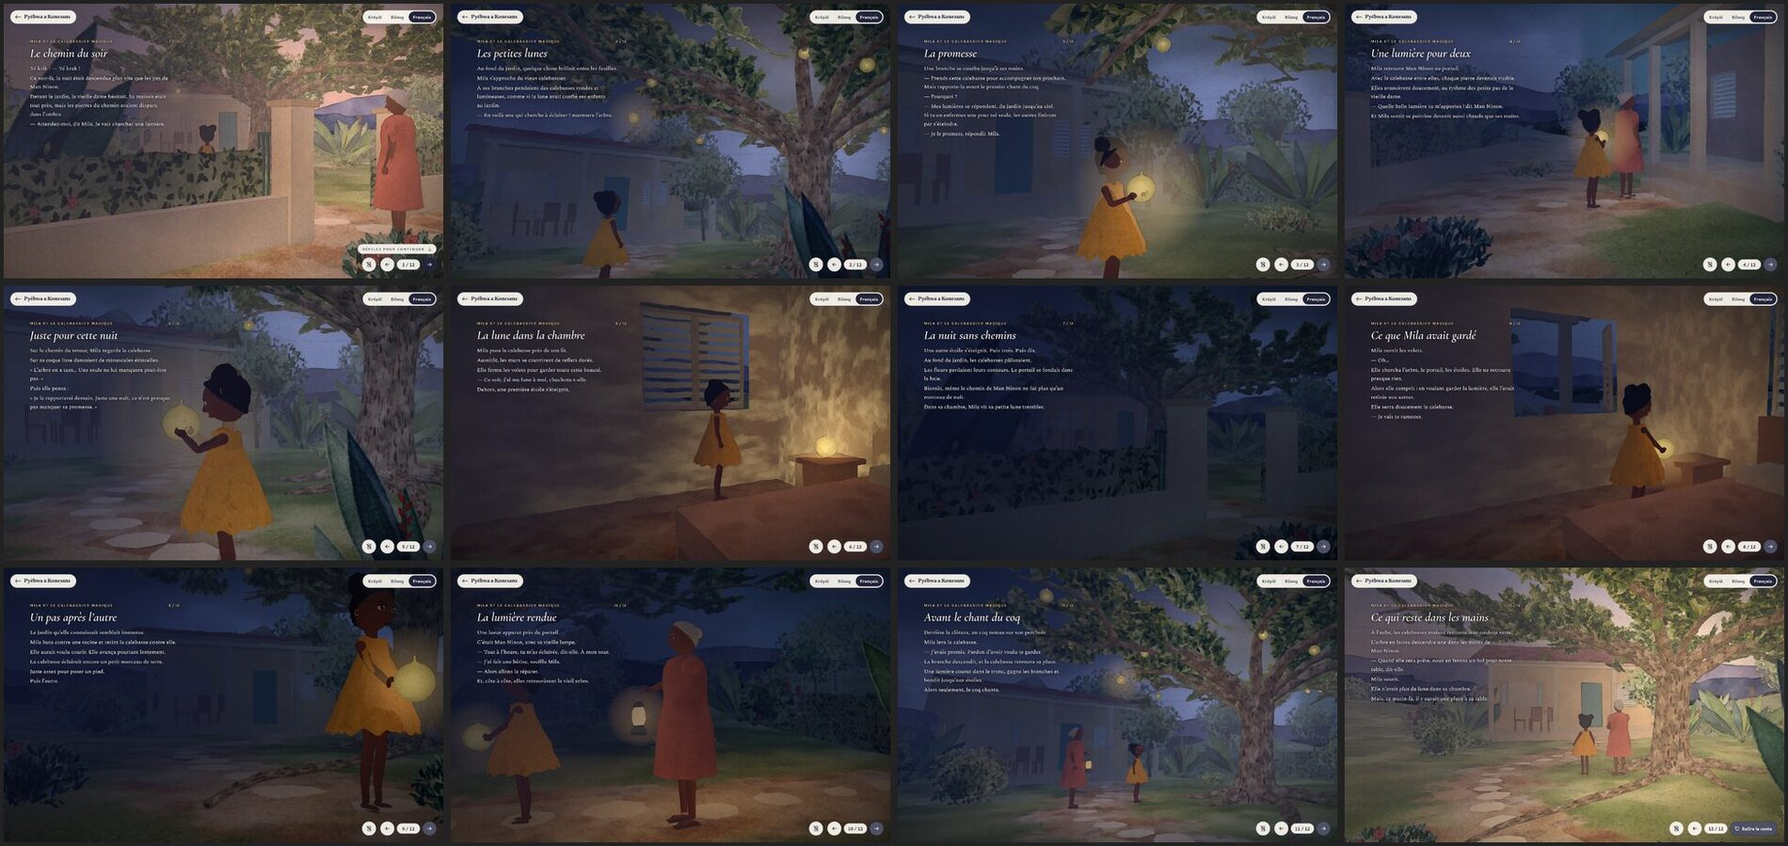
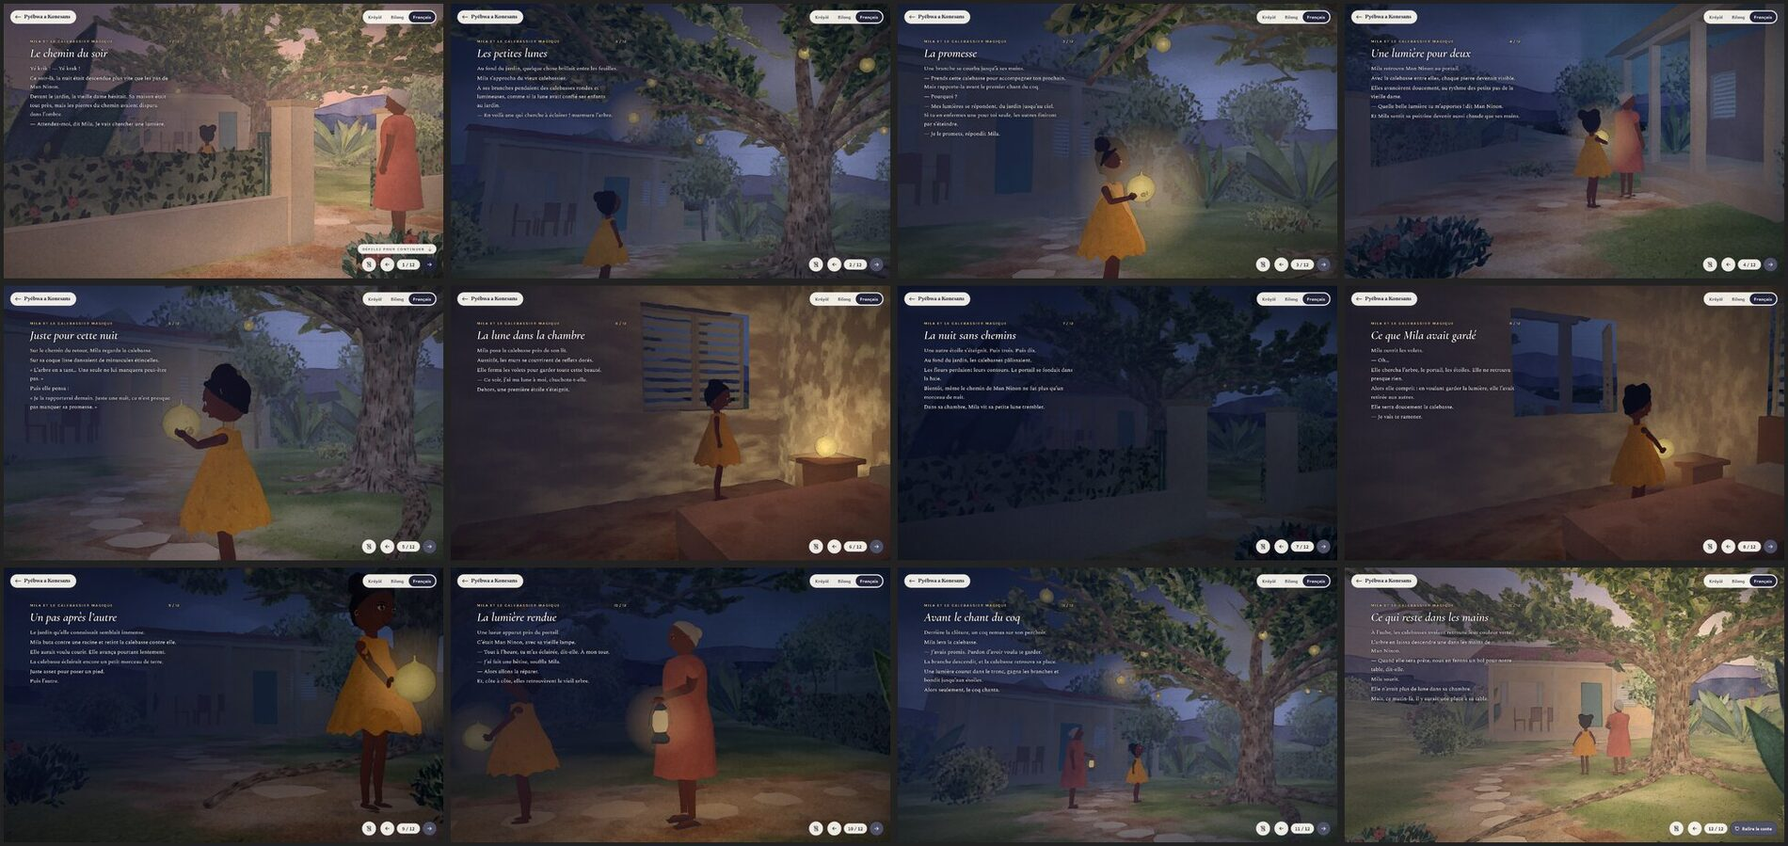
docs(missions): owner feedback 1 in the mila-calebassier report, evidence on 23236c7

diff --git a/docs/missions/2026-11-23-mila-calebassier/report.md b/docs/missions/2026-11-23-mila-calebassier/report.md
@@ -1,7 +1,7 @@
 # Report — mila-calebassier
 
 Verdict: PARTIAL
-Version: 7ed9c95
+Version: 23236c7
 
 Executor: Claude Code session, model id `claude-fable-5-2`. Layout and camera owner: the executor
 (no camera subagent). Date: 2026-11-23/24.
@@ -14,7 +14,7 @@ PR with a Deploy Preview.
 
 Outcome: the twelve pages are built, integrated as book 3 of the tree, playable on the Deploy
 Preview of draft PR #54, with sources, rebuild procedure, tests and evidence. Functional QA on the
-product commit `7ed9c95`: 156 checks, 0 failed. The existing checks of the repository are green.
+product commit `23236c7`: 156 checks, 0 failed. The existing checks of the repository are green.
 
 Why PARTIAL and not PASS:
 
@@ -118,10 +118,10 @@ OpenGL ES 3.2)`, system Chrome 158. Every "phone" below is an emulated viewport 
 | A03 | several calabashes in the branches, none on the trunk                  | build rule (no hanging point nearer than 1.3 m from the trunk axis), test "the built tree" on `assets.json`, captures                                                                                                                                                   | 13 fruits, nearest at more than 1.3 m, all above the fork                                                                                                                                                                                                                                                       | VERIFIED                                                                  |
 | A04 | contemporary architecture, no wooden hut                               | Blender stills of both houses (`s5/architecture/houses-blender.jpg`), pages 1, 3, 4, 12                                                                                                                                                                                 | rendered masonry, slab, covered terrace on posts, ribbed metal roof with eaves, jalousies; no reference photographs were gathered (limit)                                                                                                                                                                       | VERIFIED                                                                  |
 | A05 | coherent watercolour in 2D and 3D                                      | browser captures dusk, night, dark, dawn; before/after of pages 3 and 9                                                                                                                                                                                                 | coherent in one hand; drawing below the boards (section E)                                                                                                                                                                                                                                                      | PARTIAL, visual judgement                                                 |
-| A06 | real depth in motion                                                   | `s5/parallax/parallax-p01-02-04-12-desktop.mp4` (camera moves over foreground cut-outs, mid masses, tree, far relief)                                                                                                                                                   | parallax and occlusion visible on entry moves; watched as frame strips by the executor, not as video                                                                                                                                                                                                            | VERIFIED by frames                                                        |
+| A06 | real depth in motion                                                   | `s7/parallax/parallax-p01-02-04-05-10-12-{desktop,portrait}.mp4` (camera moves over foreground cut-outs, mid masses, tree, far relief)                                                                                                                                  | parallax and occlusion visible on entry moves; watched as frame strips by the executor, not as video                                                                                                                                                                                                            | VERIFIED by frames                                                        |
 | A07 | cameras documented for the twelve pages                                | `staging.ts` (landscape and portrait, entry and reading lens, duration, intent, size, move, portrait priority, continuity), `preprod.md` shotlist, `plan-jardin.png`, graybox animatics `s2/animatic/*.mp4`, tests on the presets                                       | present and executable; axis rule tested                                                                                                                                                                                                                                                                        | VERIFIED                                                                  |
-| A08 | taking, carrying, giving back are credible                             | `s5/gestures/gestures-p03-06-08-09-11-{desktop,portrait}.mp4`, time strips                                                                                                                                                                                              | hands follow the fruit, one fruit, attach point visible on pages 3 and 11; limits in section E                                                                                                                                                                                                                  | VERIFIED with reservations                                                |
-| A09 | no regression of existing tales                                        | the five repository checks; underwater stills on a fake clock against the baseline; Mila pages 1–6; existing QA journeys on branch and baseline, three of them updated to read the shelf                                                                                | checks exit 0 (57 files, 459 tests; baseline 56 and 438); no regression; details below                                                                                                                                                                                                                          | VERIFIED; `tree.mjs` and the end of `mila-nav.mjs` not run (pre-existing) |
+| A08 | taking, carrying, giving back are credible                             | `s7/gestures/gestures-p03-06-08-09-11-{desktop,portrait}.mp4`, time strips                                                                                                                                                                                              | hands follow the fruit, one fruit, attach point visible on pages 3 and 11; limits in section E                                                                                                                                                                                                                  | VERIFIED with reservations                                                |
+| A09 | no regression of existing tales                                        | the five repository checks; underwater stills on a fake clock against the baseline; Mila pages 1–6; existing QA journeys on branch and baseline, three of them updated to read the shelf                                                                                | checks exit 0 (57 files, 462 tests; baseline 56 and 438); no regression; details below                                                                                                                                                                                                                          | VERIFIED; `tree.mjs` and the end of `mila-nav.mjs` not run (pre-existing) |
 | A10 | robust, accessible navigation                                          | `qa/calebassier.mjs` on `7ed9c95`: modes `journey` (32), `rapid` (19), `touch` (13, CDP touch events), `reduced` (13), `resize` (21), `contrast` (8)                                                                                                                    | all pass; HTML text in the shared card; canvas `aria-hidden`                                                                                                                                                                                                                                                    | VERIFIED                                                                  |
 | A11 | clean loading and closing                                              | mode `lifecycle` (11): ten open/close cycles, mode `failure` (8)                                                                                                                                                                                                        | heap after GC 19.5, 20.2, 20.5 MB at cycles 1, 5, 10 (+1.5 % from 5 to 10); one canvas; one live WebGL context; blocked GLB or texture shows the shell's notice and returns to the tree                                                                                                                         | VERIFIED                                                                  |
 | A12 | performance measured                                                   | headed Chrome on the GPU, 20 s after 3 s warm-up                                                                                                                                                                                                                        | tables below                                                                                                                                                                                                                                                                                                    | VERIFIED on this desktop only                                             |
@@ -129,7 +129,7 @@ OpenGL ES 3.2)`, system Chrome 158. Every "phone" below is an emulated viewport 
 | A14 | provenance and licences                                                | `asset-register.md`, `art/mila-calebassier/README.md`                                                                                                                                                                                                                   | every file generated by the mission's scripts, nothing downloaded                                                                                                                                                                                                                                               | VERIFIED                                                                  |
 | A15 | complete reviewable version                                            | PR #54 draft, Deploy Preview, CI                                                                                                                                                                                                                                        | PR and preview exist; Codex review not done yet                                                                                                                                                                                                                                                                 | PARTIAL                                                                   |
 
-### Functional scenarios of spec 06 (commit `7ed9c95`, `s6/functional.log`, 156 pass, 0 fail)
+### Functional scenarios of spec 06 (commit `23236c7`, `s7/functional.log`, 156 pass, 0 fail)
 
 | Scenario                                     | Result                                                                                                                                                                                                                     |
 | -------------------------------------------- | -------------------------------------------------------------------------------------------------------------------------------------------------------------------------------------------------------------------------- |
@@ -235,6 +235,53 @@ masters, `.blend`, scripts, layout, build report, `MANIFEST_SHA256.txt` of 26 li
 `sha256sum -c`). The older `sources/2026-11-23-3cef379/` is left as it was (its hedge master
 predates the repaint).
 
+### Owner feedback 1 (2026-11-24, `owner-feedback-1.md`, fixed in `23236c7`)
+
+| Defect reported                                  | Root cause found                                                                                                                                     | Fix                                                                                                                                                                                                                                                                  |
+| ------------------------------------------------ | ---------------------------------------------------------------------------------------------------------------------------------------------------- | -------------------------------------------------------------------------------------------------------------------------------------------------------------------------------------------------------------------------------------------------------------------- |
+| pages 1 and 3: arms merge into the dress         | only the hand was kept out of the clothes, and only for Mila; Man Ninon's resting hand lay on the surface of her dress; elbows hung against the body | each figure's dress volume is measured (`Dims.radius`); after every arm solve the arm's depth in the clothes is measured along the upper arm and the forearm (`armDepth`), the elbow swings out and a free hand moves out until the arm is clear (`world/puppet.ts`) |
+| page 10: Man Ninon's lantern arm has disappeared | the lantern was given to her right arm but placed on her left side: the arm crossed her body inside the dress                                        | the lantern is carried out on the side of the arm that holds it                                                                                                                                                                                                      |
+| page 10: Mila's arm partly in her dress          | same cause as pages 1 and 3                                                                                                                          | same fix                                                                                                                                                                                                                                                             |
+| page 5: Mila passes through a plant              | a foreground cut-out stood on her walking line (0.1 m from it)                                                                                       | cut-out moved to the lens side of the path                                                                                                                                                                                                                           |
+
+Sweep for the same classes of defect, on every page:
+
+- Figure crossing a set element: three new tests sample both figures every 0.2 s of every page
+  against every painted cut-out (foreground of both formats and the mid-garden masses), the trunk,
+  the gate posts, the garden wall (crossed only through the gate), both houses, and in the bedroom
+  the walls, bed and bedside table. They found three more foreground cut-outs on a walking line
+  (page 2 landscape, page 5 portrait, page 10 landscape): moved. These tests see positions on the
+  ground, not what overlaps on screen: a foreground leaf may still pass in front of a figure, as a
+  foreground does. On page 5 it was moved to the text side so that it no longer does.
+- Arm inside the clothes, hidden arm: `qa/calebassier-sweep.mjs` runs every page through its whole
+  action in the engine (0.1 s steps, 1 337 instants per format, landscape and portrait) and reads
+  each figure's worst arm depth. It found one more defect: on pages 6 and 8 Mila's hands went to the
+  shutter leaves of the opposite sides, her arms crossing through her chest (about 80 mm deep);
+  uncrossed. Final sweep (`s7/sweep.log`), deepest point per page, measured against the cloth plus
+  40 mm (a forearm is 20 mm thick from its axis, limit 18 mm):
+
+| Page           | 1     | 2    | 3    | 4     | 5     | 6   | 8    | 9    | 10    | 11    | 12   |
+| -------------- | ----- | ---- | ---- | ----- | ----- | --- | ---- | ---- | ----- | ----- | ---- |
+| Mila (mm)      | 5.1   | -0.1 | -5.8 | 0.0   | -13.0 | 8.1 | 14.5 | 16.6 | 15.2  | 14.5  | -0.2 |
+| Man Ninon (mm) | -23.1 |      |      | -14.3 |       |     |      |      | -14.3 | -23.1 | -1.8 |
+
+Same values in both formats (the poses do not depend on the screen). Pages 8 to 11 are the belly
+carry: her arms are at full stretch over the front of the dress, 2 to 5 mm clear of it by this
+measure. The measure treats the dress as round and does not see its animated hem; the hero
+calabash count stayed at one on every instant.
+
+- Limits of the fix: an arm seen in front of the dress still overlaps it on screen (it is in front
+  of it, not in it); Mila's hands cannot reach the shutter leaves (the window is above her reach):
+  they are raised towards them. The frames were checked by the executor on stills and strips, not
+  as video.
+
+Evidence: `evidence/s7-owner-feedback-1-before-after.jpg` (owner's captures left, same frames
+now right), `evidence/s7-page03-arm-after.jpg`, `evidence/s7-strips-desktop.jpg` and
+`evidence/s7-strips-portrait.jpg` (eight instants of pages 1, 3, 4, 5, 9, 10, 11, 12), re-captured
+clips `s7/gestures/gestures-p03-06-08-09-11-{desktop,portrait}.mp4` and
+`s7/parallax/parallax-p01-02-04-05-10-12-{desktop,portrait}.mp4`, page sheets `evidence/s5-pages-*`
+refreshed from this build.
+
 ### Answers to the pilot's notes on S3
 
 | #   | Note                                                 | Answer                                                                                                                                                                                                                                                                                                                                                                                                                                                                                                  |
@@ -243,7 +290,7 @@ predates the repaint).
 | 2   | page 9: fruit beside the shoulder, hand on the chest | Two passes. First the carry was lowered to 0.78 m, which still read at shoulder height in the reading frame (her shoulder is at 0.90 m and the fruit is 0.21 m across), and her hands, kept clear of the dress, left the shell. Now (`7ed9c95`) the fruit is held in front of her belly at 0.68 m, just outside the flounces, with both hands on it, on pages 8 to 11: `evidence/s6-page09-reading-frame.jpg`. "Against her" is therefore a fruit held close in front of the dress, not pressed into it |
 | 3   | page 3: attach point and transfer readable           | the branch brings the fruit by its stalk into frame, her hands rise to it, then take it; the branch stays bowed over her at the end. Same clip, landscape and portrait                                                                                                                                                                                                                                                                                                                                  |
 | 4   | page 11: attach visible, then the whole tree         | the page starts on a medium shot of the raised fruit and branch A, pulls back and tilts to the whole tree; the wide frame is the end state. Same clip                                                                                                                                                                                                                                                                                                                                                   |
-| 5   | foreground cut-outs not placed                       | placed per shot and per format in `staging.ts`, relative to each reading lens; parallax clip `s5/parallax/…`                                                                                                                                                                                                                                                                                                                                                                                            |
+| 5   | foreground cut-outs not placed                       | placed per shot and per format in `staging.ts`, relative to each reading lens; parallax clips `s7/parallax/…`                                                                                                                                                                                                                                                                                                                                                                                           |
 | 6   | captures with the real text card                     | `evidence/s5-pages-desktop-1440x900.jpg`, `s5-pages-phone-390x844.jpg`, `s5-pages-phone-360x640.jpg` (real app, Français), contrast measured on pages 1, 7, 9, 12                                                                                                                                                                                                                                                                                                                                       |
 | 7   | push, draft PR, preview from S3                      | PR #54, preview `https://deploy-preview-54--contes-creoles.netlify.app`                                                                                                                                                                                                                                                                                                                                                                                                                                 |
 
@@ -279,7 +326,8 @@ Risks:
 Not verified:
 
 - The tree card through `tree.mjs` (does not launch here); the end of `mila-nav.mjs` (timeout).
-- The gesture and parallax clips in `s5/` predate the page-9 carry fix; they were not re-captured.
+- Frame times, draw calls and weights after `7ed9c95`: the owner-feedback fix changes arm solving
+  (a few more IK passes per arm on the CPU) and four cut-out positions, no asset and no shader.
 
 ## F. Repository state
 
@@ -287,10 +335,10 @@ Not verified:
   no production deploy. CI `quality` was green on `f476aa8`; later pushes re-run it.
 - Commits: `0683636` docs, `99a9f80` shared Mila figure, `f476aa8` S3 checkpoint, `3cef379` S4,
   `bd5754d` wash refinements, `65b9988` assets equal to a rebuild, `f1143ff` QA script and text shade,
-  `7ed9c95` belly carry (the product commit this report describes), `8854187` QA scripts reading the
-  shelf (no product file), then this report.
+  `7ed9c95` belly carry, `8854187` QA scripts reading the shelf, `23236c7` owner feedback 1 (the
+  product commit this report describes), then this report.
 - Local checks on the final tree: `format:check`, `lint --max-warnings=0`, `typecheck`, `test`
-  (57 files, 459 tests), `build`: all exit 0.
+  (57 files, 462 tests), `build`: all exit 0.
 - Mutating operations outside the worktree: evidence under `~/.local/share/contes-creole-qa/`, one
   new folder under the production folder's `sources/`. Nothing else.
 
@@ -305,4 +353,5 @@ Not verified:
 
 ## H. Recommended next action
 
-Pilot: route the Codex review on `7ed9c95` (later commits touch QA scripts and documents only). Safe to execute; no approval required for the review.
+Pilot: route the Codex review on `23236c7`; the owner can check the three frames of feedback 1 on
+the Deploy Preview once it has rebuilt. Safe to execute; no approval required for the review.
